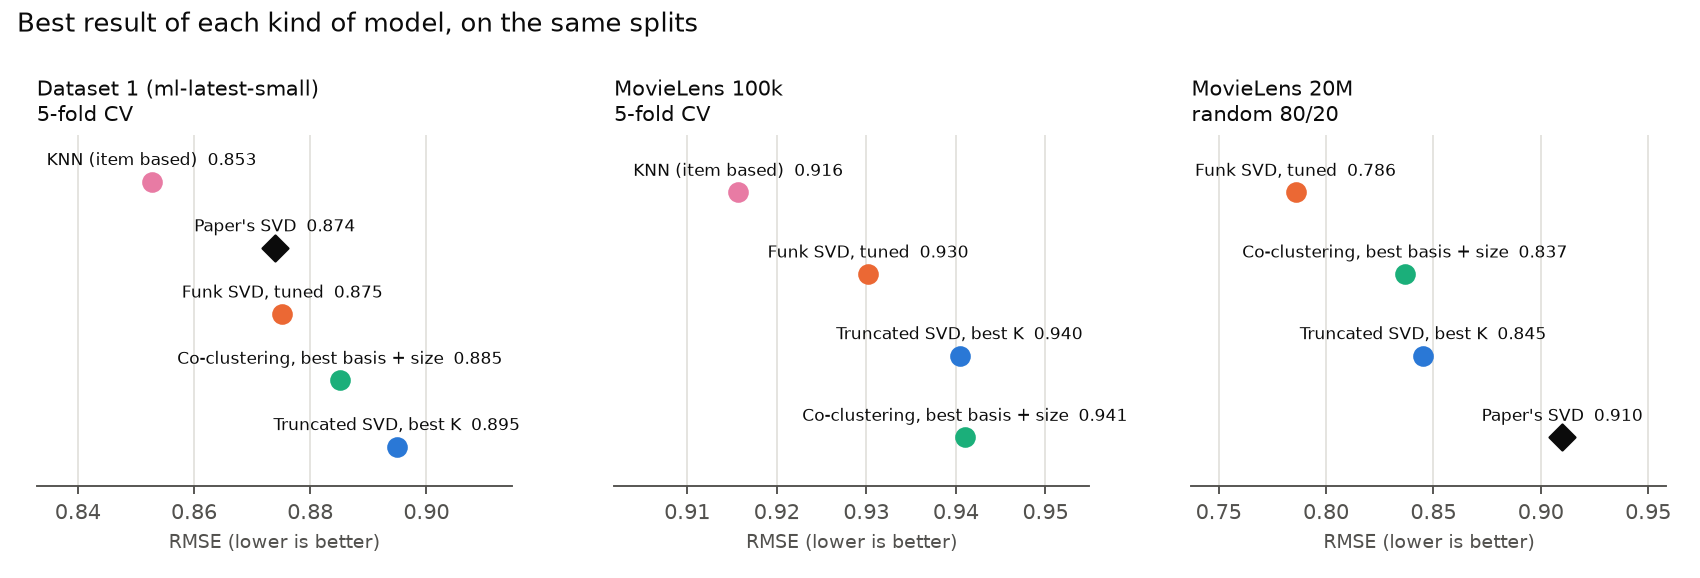
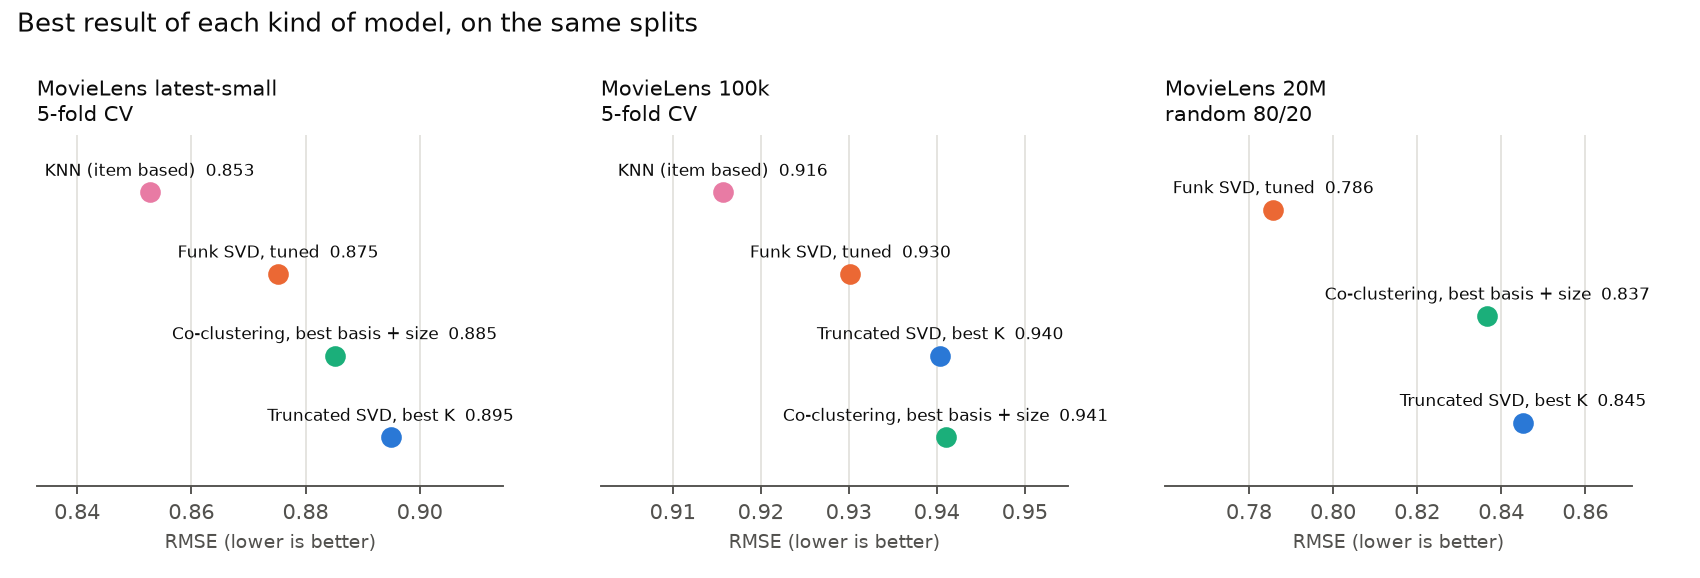
Focus the write-up on the co-clustering and baseline comparison
README now leads with the study's own results: the six co-clustering
bases, the ratings-per-parameter pattern, the two kinds of SVD and KNN.
The paper is cited as the source of the datasets and protocols.
Figures use plain dataset names and no longer mark reference values.
Removes r2_check.py and its figure.

diff --git a/code/plot_k.py b/code/plot_k.py
@@ -4,8 +4,7 @@
 
 One plot per dataset. Blue = truncated SVD, orange = Funk SVD (Surprise's SVD).
 5-fold runs are drawn as mean with a band of +- 1 std; random 80/20 as a line.
-The grey dashed line is K = 5, the paper's choice. The black diamond is the
-paper's own SVD number for that dataset.
+The grey dashed line marks K = 5.
 """
 
 import collections
@@ -24,11 +23,10 @@ JSONL = os.path.join(OUT, "k_sweep.jsonl")
 BLUE, ORANGE = "#2a78d6", "#eb6834"
 INK, MUTED, GRID = "#0b0b0b", "#52514e", "#e4e3df"
 NAMES = {"tsvd": "Truncated SVD", "funk": "Funk SVD (Surprise)"}
-TITLES = {"mlsmall": "MovieLens latest small (paper Dataset 1)",
-          "ml100k": "MovieLens 100k ",
-          "ml20m": "MovieLens 20M (paper Dataset 2)"}
-# paper: Table 1 p. 13 (Dataset 1, 5-fold), Table 4 p. 18 (Dataset 2)
-PAPER = {"mlsmall": 0.8739, "ml20m": 0.91}   # p. 13 text: "0.8739 ... five-fold"
+TITLES = {"mlsmall": "MovieLens latest-small",
+          "ml100k": "MovieLens 100k",
+          "ml20m": "MovieLens 20M"}
+PAPER = {}   # optional reference values to mark on the K = 5 line
 
 
 def load():
@@ -88,7 +86,7 @@ def plot_dataset(dataset, runs):
                 label=f"paper SVD: {PAPER[dataset]}")
     lo, hi = ax.get_ylim()
     ax.set_ylim(lo - 0.08 * (hi - lo), hi)     # room for the bottom label
-    ax.text(k5 + 0.1, ax.get_ylim()[0], " paper K=5", va="bottom", fontsize=8, color=MUTED)
+    ax.text(k5 + 0.1, ax.get_ylim()[0], " K=5", va="bottom", fontsize=8, color=MUTED)
     ax.set_xticks(range(len(all_ks)))
     ax.set_xticklabels([str(k) for k in all_ks])
     ax.set_xlabel("K (number of factors)   K=0: no factors, baseline only", color=MUTED, fontsize=9)

diff --git a/code/plot_bases.py b/code/plot_bases.py
@@ -25,8 +25,8 @@ INK, MUTED, GRID = "#0b0b0b", "#52514e", "#e4e3df"
 # all six bases: Banerjee et al. (2007); in brackets: earlier work that used the same scheme
 NAMES = {"C1": "C1", "C2": "C2 (MSSRCC residue 1, Cho et al. 2004)", "C3": "C3", "C4": "C4",
          "C5": "C5 (George & Merugu 2005)", "C6": "C6 (MSSRCC residue 2, Cho et al. 2004)"}
-TITLES = {"mlsmall": "Dataset 1 (ml-latest-small)", "ml100k": "MovieLens 100k",
-          "ml20m": "Dataset 2 (MovieLens 20M)"}
+TITLES = {"mlsmall": "MovieLens latest-small", "ml100k": "MovieLens 100k",
+          "ml20m": "MovieLens 20M"}
 PROTO = {"random": "random 80/20", "temporal": "temporal 80/20", "kfold": "5-fold CV",
          "loo_last": "leave-last-one-out", "loo_random": "leave-random-one-out"}
 

diff --git a/code/plot_svd_full.py b/code/plot_svd_full.py
@@ -19,8 +19,8 @@ HERE = os.path.dirname(os.path.abspath(__file__))
 OUT = os.path.join(HERE, "..", "results")
 BLUE, ORANGE = "#2a78d6", "#eb6834"
 INK, MUTED, GRID = "#0b0b0b", "#52514e", "#e4e3df"
-TITLES = {"mlsmall": "Dataset 1 (ml-latest-small)", "ml100k": "MovieLens 100k",
-          "ml20m": "Dataset 2 (MovieLens 20M)"}
+TITLES = {"mlsmall": "MovieLens latest-small", "ml100k": "MovieLens 100k",
+          "ml20m": "MovieLens 20M"}
 PROTO = {"random": "random 80/20", "temporal": "temporal 80/20", "kfold": "5-fold CV",
          "loo_last": "leave-last-one-out", "loo_random": "leave-random-one-out"}
 DEFAULT = {"reg": 0.02, "n_epochs": 20, "lr": 0.005}

diff --git a/README.md b/README.md
@@ -1,21 +1,20 @@
-# Reproducing a 2025 recommender benchmark on MovieLens
+# Six co-clustering variants against SVD and KNN on MovieLens
 
-SVD, KNN and the six co-clustering bases of Banerjee et al. (2007), evaluated on three MovieLens datasets under five train/test protocols, with every test set fingerprinted.
+The six co-clustering bases of Banerjee et al. (2007), truncated SVD, Funk SVD and item-based KNN, evaluated on three MovieLens datasets under five train/test protocols, with every test set fingerprinted.
 
-![Reported vs. reproduced](results/figures/overview.png)
+![Six co-clustering bases](results/figures/overview.png)
 
-This repository re-runs the baselines of Khan et al. (2025), *A transformer-based architecture for collaborative filtering modeling in personalized recommender systems* (Scientific Reports 15, 24503), and extends the comparison to co-clustering. It contains all code, all raw results (more than 6,000 runs) and all figures.
+This repository contains all code, all raw results (more than 6,000 runs) and all figures of the study.
 
 **Author:** Elif Hüsna Turkay · Independent study supervised by Dr. Hyuk Cho, Department of Computer Science, Sam Houston State University
 
 ## Key findings
 
-- On **MovieLens latest-small**, the paper's SVD result reproduces exactly: RMSE 0.870 and MAE 0.667 (reported 0.87 and 0.67).
-- On **MovieLens 20M** it does not. Every protocol gives RMSE between 0.78 and 0.88; the paper reports 0.91.
-- The paper's **R² values contradict its own RMSE values**. On a fixed test set, R² = 1 − MSE / Var(y), so a higher RMSE must give a lower R². Our measured R² matches the value implied by the paper's RMSE.
-- The paper's "SVD" behaves like **Funk SVD** (Surprise `SVD`), not truncated SVD. K = 5 is not the best K on any dataset.
-- Among the six co-clustering bases, the winner depends on **training ratings per learned parameter**. MSSRCC (C6) is best on 20M at 2 × 2 and 3 × 3 and overfits on the small datasets (2.6 ratings per parameter on latest-small).
-- On the small datasets, an **item-based KNN** beats every SVD and co-clustering setup under random splits, but loses to Funk SVD on temporal splits.
+- The six co-clustering bases rank very differently on small and large data. C6 (MSSRCC residue 2, Cho et al. 2004), the basis with the most parameters, is the worst on MovieLens latest-small and 100k and the best on MovieLens 20M at 2 × 2 and 3 × 3.
+- The ranking follows **training ratings per learned parameter**: C6 has 2.6 per parameter on latest-small and 32 on 20M. Bases with fewer parameters can use much larger grids without overfitting.
+- With basis and grid size chosen together, co-clustering comes within 0.011 RMSE of a tuned Funk SVD on the small datasets, and 0.051 behind on 20M.
+- Funk SVD beats truncated SVD in all 60 comparisons (5 protocols × 3 datasets × 4 values of K). The best K grows with the data, from about 15 to 50–100.
+- On the small datasets an item-based KNN beats every SVD and co-clustering setup under random splits, but loses to Funk SVD when each user's newest ratings are held out.
 
 | | Best co-clustering | Best Funk SVD | Item-based KNN |
 |---|---|---|---|
@@ -27,20 +26,19 @@ This repository re-runs the baselines of Khan et al. (2025), *A transformer-base
 
 ## What we did
 
-1. **Matched the paper's data.** The paper uses MovieLens latest-small (Dataset 1) and MovieLens 20M (Dataset 2). We used both, with MovieLens 100k as a third dataset, and checked the rating, user and movie counts against the paper.
-2. **Fixed the splits.** The paper describes its split three different ways and gives no seed, so every model was run under five protocols: random 80/20, per-user temporal 80/20, 5-fold CV, leave-last-one-out and leave-random-one-out. All scripts take their split from one module and record a fingerprint of the test set, so any two numbers in this repository can be checked for being measured on the same ratings.
-3. **Re-ran the paper's baselines.** SVD (library defaults, as the paper gives no settings) and the Decision Tree with the paper's input features. We also wrote Funk SVD ourselves and confirmed that it matches the Surprise library to 1e-15.
-4. **Checked the paper's tables against themselves.** The paper reports both RMSE and R² for XGBoost, which fixes the variance of its test set. From that, the R² implied by every other RMSE in the table follows directly (`code/r2_check.py`).
-5. **Swept the number of factors.** Truncated SVD and Funk SVD for K = 0 to 100 on all three datasets, then both SVDs on all protocols and Funk SVD with different regularization, epochs and learning rates.
-6. **Compared six co-clustering bases.** All six bases of Banerjee et al. (2007) in one implementation, checked against their matrix forms, each on a 9 × 9 grid of user and item cluster counts from 1 to 50 (5-fold CV on the small datasets, K = L on 20M), and each basis at its best size on all protocols.
-7. **Added KNN.** The paper lists KNN as a baseline but does not describe it. We used an item-based KNN with a baseline estimator on the two small datasets.
+1. **Datasets.** MovieLens latest-small and MovieLens 20M, the two datasets of a recent MovieLens benchmark (Khan et al., 2025), and MovieLens 100k as a third.
+2. **One split module.** Every model is run under five protocols: random 80/20, per-user temporal 80/20, 5-fold CV, leave-last-one-out and leave-random-one-out. All scripts take their split from one module and record a fingerprint of the test set, so any two numbers in this repository can be checked for being measured on the same ratings.
+3. **Six co-clustering bases.** All six bases of Banerjee et al. (2007) in one implementation, checked against their matrix forms ‖A − RRᵀACCᵀ‖² (C2) and ‖(I − RRᵀ)A(I − CCᵀ)‖² (C6). Each basis on a 9 × 9 grid of user and item cluster counts from 1 to 50 (5-fold CV on the small datasets, K = L on 20M), then each basis at its best size on all protocols.
+4. **Two kinds of SVD.** Truncated SVD (SciPy `svds` on baseline residuals) and Funk SVD (our own implementation, identical to Surprise's `SVD` to 1e-15) for K = 0 to 100, on all protocols, plus Funk SVD with different regularization, epochs and learning rates.
+5. **KNN.** Surprise `KNNBaseline`, item based, pearson_baseline similarity, on the two small datasets.
+6. **A Decision Tree baseline** with label-encoded user and movie IDs plus genres, as a reference.
 
 ## Repository layout
 
 ```
 code/
   common_split.py    datasets, the five split protocols, test-set fingerprint
-  own_models.py      Funk SVD (matches surprise.SVD to 1e-15) and sparse co-clustering
+  own_models.py      Funk SVD (matches surprise.SVD) and sparse co-clustering
   bases.py           the six co-clustering bases C1..C6 in one class
   eval_protocols.py  one dataset x one model x one protocol -> results/eval.jsonl
   run_protocols.py   runs every model and protocol, prints the tables
@@ -48,7 +46,6 @@ code/
   svd_full.py        both SVDs on all protocols; Funk SVD hyperparameters
   run_bases.py       six bases: 3 x 3 on all protocols, K x L grid, best cells
   plot_k.py, plot_svd_full.py, plot_bases.py   figures and tables
-  r2_check.py        R2 implied by the paper's own RMSE values (no data needed)
 scripts/
   download_data.py   fetches the datasets from GroupLens
 results/
@@ -63,13 +60,13 @@ pip install -r requirements.txt
 python3 scripts/download_data.py          # add --20m for MovieLens 20M (about 190 MB)
 cd code
 
-python3 run_protocols.py mlsmall          # SVD, Decision Tree, KNN, co-clustering, 5 protocols (minutes)
+python3 run_bases.py protocols mlsmall    # six bases at 3 x 3, all protocols (minutes)
+python3 run_bases.py grid mlsmall kfold   # six bases x 81 sizes x 5 folds (about an hour)
 python3 k_sweep.py mlsmall tsvd kfold     # truncated SVD, K = 0..100 (seconds)
 python3 k_sweep.py mlsmall funk kfold     # Funk SVD, K = 0..100 (about a minute)
 python3 svd_full.py protocols mlsmall
-python3 run_bases.py protocols mlsmall    # six bases at 3 x 3
-python3 run_bases.py grid mlsmall kfold   # six bases x 81 sizes x 5 folds (about an hour)
-python3 plot_k.py && python3 plot_svd_full.py && python3 plot_bases.py
+python3 run_protocols.py mlsmall          # SVD, KNN, Decision Tree, 3 x 3 co-clustering
+python3 plot_bases.py && python3 plot_k.py && python3 plot_svd_full.py
 ```
 
 Replace `mlsmall` with `ml100k` or `ml20m` for the other datasets. Runs on 20M are slow (one 50 × 50 co-clustering run takes 10 to 30 minutes) and need about 6 GB of memory. Every script skips runs that are already in its results file, so a stopped job can be restarted.
@@ -84,24 +81,24 @@ Replace `mlsmall` with `ml100k` or `ml20m` for the other datasets. Runs on 20M a
 
 | | |
 |---|---|
+| ![Six bases, 20M](results/figures/bases_square_ml20m.png) | ![Train vs test](results/figures/bases_3x3.png) |
+| Six bases on MovieLens 20M, K = L | Six bases at 3 × 3, train and test RMSE |
 | ![K vs RMSE, latest-small](results/figures/k_rmse_mlsmall.png) | ![K vs RMSE, 20M](results/figures/k_rmse_ml20m.png) |
 | K against RMSE, latest-small (5-fold) | K against RMSE, 20M |
-| ![R² check](results/figures/r2_check.png) | ![Train vs test](results/figures/bases_3x3.png) |
-| Printed vs implied R² | Six bases at 3 × 3, train and test RMSE |
 
 ![Six bases, K x L grid](results/figures/bases_heat_mlsmall.png)
 
 ## Limitations
 
-The full 81-cell grid was not run on 20M (K = L only), KNN was not run on 20M because of memory, and "best configuration" values are selected on test results, so they are slightly optimistic for every model family. We did not re-implement the transformer model of the paper.
+The full 81-cell grid was not run on 20M (K = L only), KNN was not run on 20M because of memory, and "best configuration" values are selected on test results, so they are slightly optimistic for every model family.
 
 ## References
 
-- Khan, H. U., Naz, A., Alarfaj, F. K., Almusallam, N. (2025). A transformer-based architecture for collaborative filtering modeling in personalized recommender systems. *Scientific Reports* 15, 24503.
 - Banerjee, A., Dhillon, I., Ghosh, J., Merugu, S., Modha, D. S. (2007). A generalized maximum entropy approach to Bregman co-clustering and matrix approximation. *JMLR* 8.
 - Cho, H., Dhillon, I. S., Guan, Y., Sra, S. (2004). Minimum sum-squared residue co-clustering of gene expression data. *SIAM SDM*.
-- George, T., Merugu, S. (2005). A scalable collaborative filtering framework based on co-clustering. *IEEE ICDM*.
 - Ferrari Dacrema, M., Cremonesi, P., Jannach, D. (2019). Are we really making much progress? A worrying analysis of recent neural recommendation approaches. *ACM RecSys*.
+- George, T., Merugu, S. (2005). A scalable collaborative filtering framework based on co-clustering. *IEEE ICDM*.
+- Khan, H. U., Naz, A., Alarfaj, F. K., Almusallam, N. (2025). A transformer-based architecture for collaborative filtering modeling in personalized recommender systems. *Scientific Reports* 15, 24503.
 
 ## Acknowledgements
 
